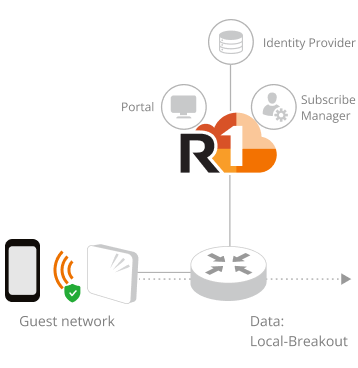
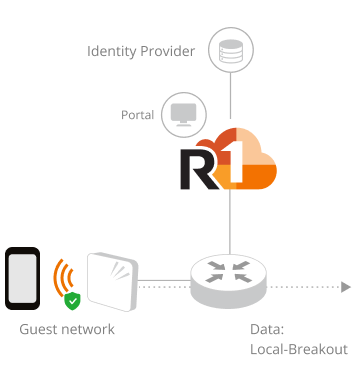
ACX-86291: Support Accounting Service on CaptivePortal SAML network

diff --git a/libs/rc/shared/components/src/NetworkForm/NetworkDiagram/NetworkDiagram.tsx b/libs/rc/shared/components/src/NetworkForm/NetworkDiagram/NetworkDiagram.tsx
@@ -82,9 +82,15 @@ import OpenDiagram                       from '../assets/images/network-wizard-d
 import PskMacAuthProxyDiagram            from '../assets/images/network-wizard-diagrams/psk-mac-auth-proxy.png'
 import PskMacAuthDiagram                 from '../assets/images/network-wizard-diagrams/psk-mac-auth.png'
 import PskDiagram                        from '../assets/images/network-wizard-diagrams/psk.png'
-import SAMLWithOweDiagram                from '../assets/images/network-wizard-diagrams/saml-owe.png'
-import SAMLWithPskDiagram                from '../assets/images/network-wizard-diagrams/saml-psk.png'
-import SAMLDiagram                       from '../assets/images/network-wizard-diagrams/saml.png'
+import SamlAaaProxyDiagram               from '../assets/images/network-wizard-diagrams/saml-aaa-proxy.png'
+import SamlAaaDiagram                    from '../assets/images/network-wizard-diagrams/saml-aaa.png'
+import SamlOweAaaProxyDiagram            from '../assets/images/network-wizard-diagrams/saml-owe-aaa-proxy.png'
+import SamlOweAaaDiagram                 from '../assets/images/network-wizard-diagrams/saml-owe-aaa.png'
+import SamlOweDiagram                    from '../assets/images/network-wizard-diagrams/saml-owe.png'
+import SamlPskAaaProxyDiagram            from '../assets/images/network-wizard-diagrams/saml-psk-aaa-proxy.png'
+import SamlPskAaaDiagram                 from '../assets/images/network-wizard-diagrams/saml-psk-aaa.png'
+import SamlPskDiagram                    from '../assets/images/network-wizard-diagrams/saml-psk.png'
+import SamlDiagram                       from '../assets/images/network-wizard-diagrams/saml.png'
 import SelfSignInAaaProxyDiagram         from '../assets/images/network-wizard-diagrams/self-sign-in-aaa-proxy.png'
 import SelfSignInAaaDiagram              from '../assets/images/network-wizard-diagrams/self-sign-in-aaa.png'
 import SelfSignInOweAaaProxyDiagram      from '../assets/images/network-wizard-diagrams/self-sign-in-owe-aaa-proxy.png'
@@ -316,8 +322,7 @@ function getCaptivePortalDiagram (props: CaptivePortalDiagramProps) {
         (wisprWithOwe ? WISPrWithAlwaysAcceptOweDiagram : WISPrWithAlwaysAcceptDiagram)) :
       (wisprWithPsk ? WISPrWithPskDiagram : (wisprWithOwe ? WISPrWithOweDiagram : WISPrDiagram)),
     [GuestNetworkTypeEnum.Directory]: getDirectoryServerDiagram(props),
-    [GuestNetworkTypeEnum.SAML]: wisprWithOwe ? SAMLWithOweDiagram
-      : (wisprWithPsk ? SAMLWithPskDiagram : SAMLDiagram),
+    [GuestNetworkTypeEnum.SAML]: getSamlDiagram(props),
     [GuestNetworkTypeEnum.Workflow]: getWorkflowDiagram(wisprWithPsk, wisprWithOwe, props)
   }
   return CaptivePortalDiagramMap[type] || ClickThroughDiagram
@@ -413,6 +418,23 @@ const captivePortalDiagramMapping: Record<string, CaptivePortalDiagramSet> = {
     Diagram: DirectoryServerDiagram,
     AaaProxyDiagram: DirectoryServerAaaProxyDiagram,
     AaaDiagram: DirectoryServerAaaDiagram
+  },
+
+  // --- Saml ---
+  SamlOWE: {
+    Diagram: SamlOweDiagram,
+    AaaProxyDiagram: SamlOweAaaProxyDiagram,
+    AaaDiagram: SamlOweAaaDiagram
+  },
+  SamlPSK: {
+    Diagram: SamlPskDiagram,
+    AaaProxyDiagram: SamlPskAaaProxyDiagram,
+    AaaDiagram: SamlPskAaaDiagram
+  },
+  Saml: {
+    Diagram: SamlDiagram,
+    AaaProxyDiagram: SamlAaaProxyDiagram,
+    AaaDiagram: SamlAaaDiagram
   }
 }
 
@@ -447,6 +469,7 @@ const getHostApprovalDiagram = createCaptivePortalDiagramGenerator('HostApproval
 const getGuestPassDiagram = createCaptivePortalDiagramGenerator('GuestPass')
 const getClickThroughDiagram = createCaptivePortalDiagramGenerator('ClickThrough')
 const getDirectoryServerDiagram = createCaptivePortalDiagramGenerator('DirectoryServer')
+const getSamlDiagram = createCaptivePortalDiagramGenerator('Saml')
 
 
 

diff --git a/libs/rc/shared/components/src/NetworkForm/NetworkDiagram/NetworkDiagram.spec.tsx b/libs/rc/shared/components/src/NetworkForm/NetworkDiagram/NetworkDiagram.spec.tsx
@@ -1058,6 +1058,86 @@ describe('NetworkDiagram', () => {
       expect(diagram.src).toContain('DirectoryServerOweAaaProxy')
     })
 
+    it('should render Captive portal (SAML) diagram successfully', async () => {
+      const portalType = GuestNetworkTypeEnum.SAML
+      render(
+        <Provider>
+          <NetworkFormContext.Provider value={{
+            editMode: false,
+            cloneMode: false,
+            isRuckusAiMode: false,
+            data: { type },
+            setData: jest.fn()
+          }}>
+            <NetworkDiagram
+              networkPortalType={portalType}
+            />
+          </NetworkFormContext.Provider>
+        </Provider>, {
+          route: {
+            params
+          }
+        })
+      const diagram = screen.getByRole('img') as HTMLImageElement
+      expect(diagram.src).toContain('Saml')
+    })
+    it('should render Captive portal (SAML with PSK) diagram successfully', async () => {
+      const portalType = GuestNetworkTypeEnum.SAML
+      render(
+        <Provider>
+          <NetworkFormContext.Provider value={{
+            editMode: false,
+            cloneMode: false,
+            isRuckusAiMode: false,
+            data: { type },
+            setData: jest.fn()
+          }}>
+            <NetworkDiagram
+              type={NetworkTypeEnum.CAPTIVEPORTAL}
+              networkPortalType={portalType}
+              wlanSecurity={WlanSecurityEnum.WPA23Mixed}
+              networkSecurity={'PSK'}
+              enableAccountingService={true}
+            />
+          </NetworkFormContext.Provider>
+        </Provider>, {
+          route: {
+            params
+          }
+        })
+      const diagram = screen.getByRole('img') as HTMLImageElement
+      expect(diagram.src).toContain('SamlPskAaa')
+    })
+    it('should render Captive portal (SAML with OWE) diagram successfully', async () => {
+      const portalType = GuestNetworkTypeEnum.SAML
+      render(
+        <Provider>
+          <NetworkFormContext.Provider value={{
+            editMode: false,
+            cloneMode: false,
+            isRuckusAiMode: false,
+            data: { type },
+            setData: jest.fn()
+          }}>
+            <NetworkDiagram
+              type={NetworkTypeEnum.CAPTIVEPORTAL}
+              networkPortalType={portalType}
+              wlanSecurity={WlanSecurityEnum.WPA23Mixed}
+              networkSecurity={'OWE'}
+              enableAccountingService={true}
+              enableAccountingProxy={true}
+            />
+          </NetworkFormContext.Provider>
+        </Provider>, {
+          route: {
+            params
+          }
+        })
+      const diagram = screen.getByRole('img') as HTMLImageElement
+      expect(diagram.src).toContain('SamlOweAaaProxy')
+    })
+
+
     it('should render Captive portal (WISPr) diagram successfully', async () => {
       const portalType = GuestNetworkTypeEnum.WISPr
       const { asFragment } = render(

diff --git a/libs/rc/shared/components/src/NetworkForm/CaptivePortal/SAMLForm.tsx b/libs/rc/shared/components/src/NetworkForm/CaptivePortal/SAMLForm.tsx
@@ -1,6 +1,7 @@
 import React, { useContext, useEffect, useState } from 'react'
 
 import { Button, Form, Input, Space } from 'antd'
+import { useWatch }                   from 'antd/lib/form/Form'
 import { useIntl }                    from 'react-intl'
 
 import { Drawer, GridCol, GridRow, Select, StepsFormLegacy } from '@acx-ui/components'
@@ -20,6 +21,7 @@ import { NetworkDiagram }          from '../NetworkDiagram/NetworkDiagram'
 import NetworkFormContext          from '../NetworkFormContext'
 import { NetworkMoreSettingsForm } from '../NetworkMoreSettings/NetworkMoreSettingsForm'
 import { IdentityGroup }           from '../NetworkSettings/SharedComponent/IdentityGroup/IdentityGroup'
+import { AccountingServiceInput }  from '../SharedComponent'
 
 import { DhcpCheckbox }                          from './DhcpCheckbox'
 import { RedirectUrlInput }                      from './RedirectUrlInput'
@@ -57,7 +59,13 @@ export const SAMLForm = () => {
   const { $t } = useIntl()
   const form = Form.useFormInstance()
 
-  const selectedSamlIdpProfilesId = Form.useWatch('samlIdpProfilesId', form)
+  const selectedSamlIdpProfilesId = useWatch('samlIdpProfilesId', form)
+  const networkSecurity = useWatch('networkSecurity', form)
+  const enableAccountingProxy = useWatch('enableAccountingProxy', form)
+  const enableAccountingService = useWatch('enableAccountingService', form)
+
+  // eslint-disable-next-line max-len
+  const isSupportNetworkRadiusAccounting = useIsSplitOn(Features.WIFI_NETWORK_RADIUS_ACCOUNTING_TOGGLE)
 
   useEffect(() => {
     const setFormFields = (idp: SamlIdpProfileViewData | undefined) => {
@@ -86,6 +94,12 @@ export const SAMLForm = () => {
       setCreatedSamlIdpId(undefined)
     }
   }, [idpViewDataList])
+
+  useEffect(()=>{
+    if((editMode || cloneMode) && data){
+      form.setFieldsValue({ ...data })
+    }
+  }, [data?.id])
 
   useEffect(() => {
     const samlIdpProfilesName = samlIdpOptions.find((option) => {
@@ -153,12 +167,20 @@ export const SAMLForm = () => {
             enableDefaultWalledGarden={false}
             required={isSamlSsoEnabled}
           />
+          {isSupportNetworkRadiusAccounting &&
+          <AccountingServiceInput
+            isProxyModeConfigurable={true}
+          />
+          }
         </GridCol>
         <GridCol col={{ span: 14 }}>
           <NetworkDiagram
             type={NetworkTypeEnum.CAPTIVEPORTAL}
             networkPortalType={GuestNetworkTypeEnum.SAML}
             wlanSecurity={data?.wlan?.wlanSecurity}
+            networkSecurity={networkSecurity}
+            enableAccountingService={enableAccountingService}
+            enableAccountingProxy={enableAccountingProxy}
           />
         </GridCol>
       </GridRow>

diff --git a/libs/rc/shared/components/src/NetworkForm/CaptivePortal/SAMLForm.spec.tsx b/libs/rc/shared/components/src/NetworkForm/CaptivePortal/SAMLForm.spec.tsx
@@ -12,7 +12,8 @@ import {
   SamlIdpProfileUrls,
   CertificateUrls,
   NetworkSaveData,
-  AccessControlUrls
+  AccessControlUrls,
+  NetworkTypeEnum
 } from '@acx-ui/rc/utils'
 import { Provider, store }                     from '@acx-ui/store'
 import { mockServer, render, screen, waitFor } from '@acx-ui/test-utils'
@@ -454,10 +455,43 @@ describe('CaptiveNetworkForm - SAML', () => {
     expect(await screen.findByText('SAML-A7')).toBeInTheDocument()
   })
 
+  it('should accounting service displayed when FF enabled', async () => {
+    jest.mocked(useIsSplitOn).mockImplementation(
+      ff => ff === Features.WIFI_NETWORK_RADIUS_ACCOUNTING_TOGGLE
+    )
+    render(
+      <Provider>
+        <NetworkFormContext.Provider
+          value={{
+            editMode: true,
+            cloneMode: false,
+            data: { ...cloudPathDataNone, id: params.networkId },
+            isRuckusAiMode: false
+          }}
+        >
+          <MLOContext.Provider
+            value={{
+              isDisableMLO: false,
+              disableMLO: jest.fn()
+            }}
+          >
+            <StepsFormLegacy>
+              <StepsFormLegacy.StepForm>
+                <SAMLForm />
+              </StepsFormLegacy.StepForm>
+            </StepsFormLegacy>
+          </MLOContext.Provider>
+        </NetworkFormContext.Provider>
+      </Provider>
+    )
+    await waitFor(() => expect(SAMLQueryAPI).toBeCalled())
+    expect(screen.getByText('Accounting Service')).toBeInTheDocument()
+  })
+
   describe('RedirectUrlInput functionality', () => {
     // Mock data for testing
     const mockNetworkWithRedirectUrl: NetworkSaveData = {
-      type: 'guest',
+      type: NetworkTypeEnum.CAPTIVEPORTAL,
       guestPortal: {
         redirectUrl: 'http://example.com',
         guestNetworkType: GuestNetworkTypeEnum.SAML
